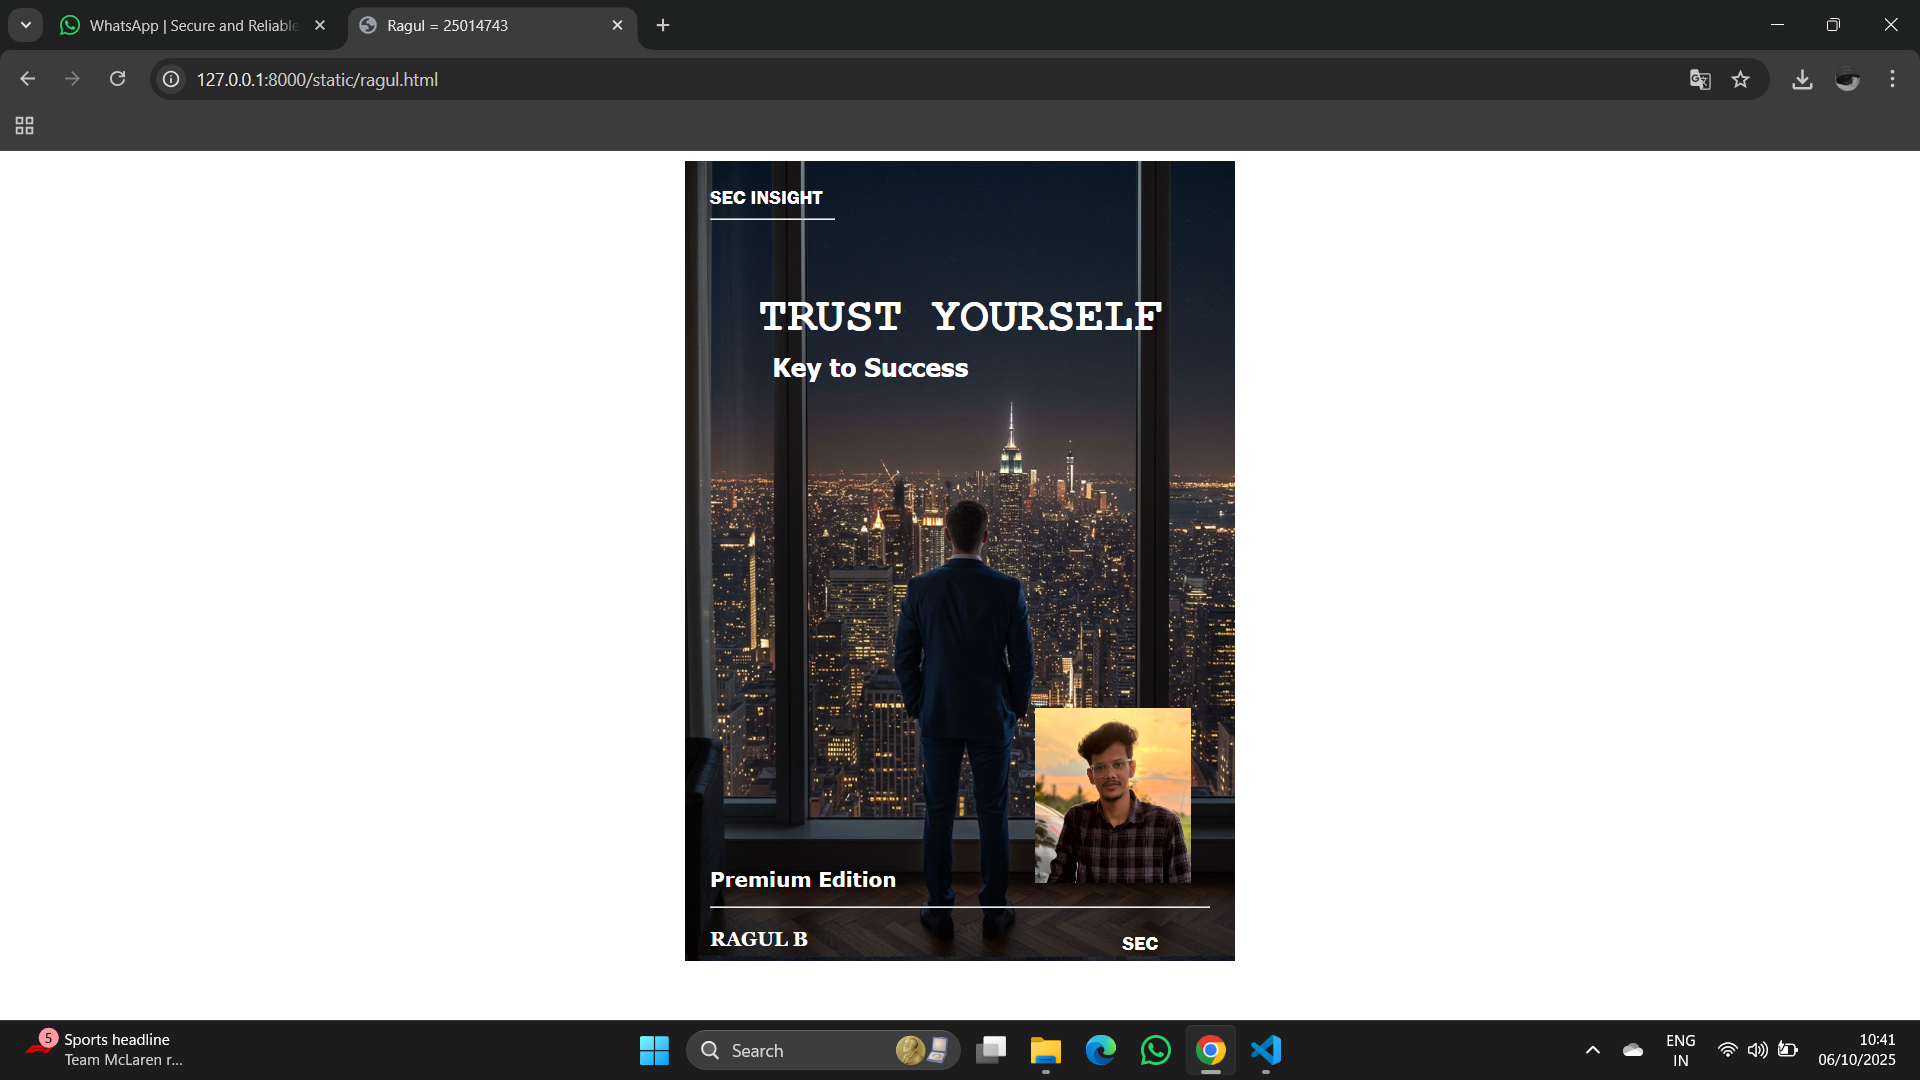
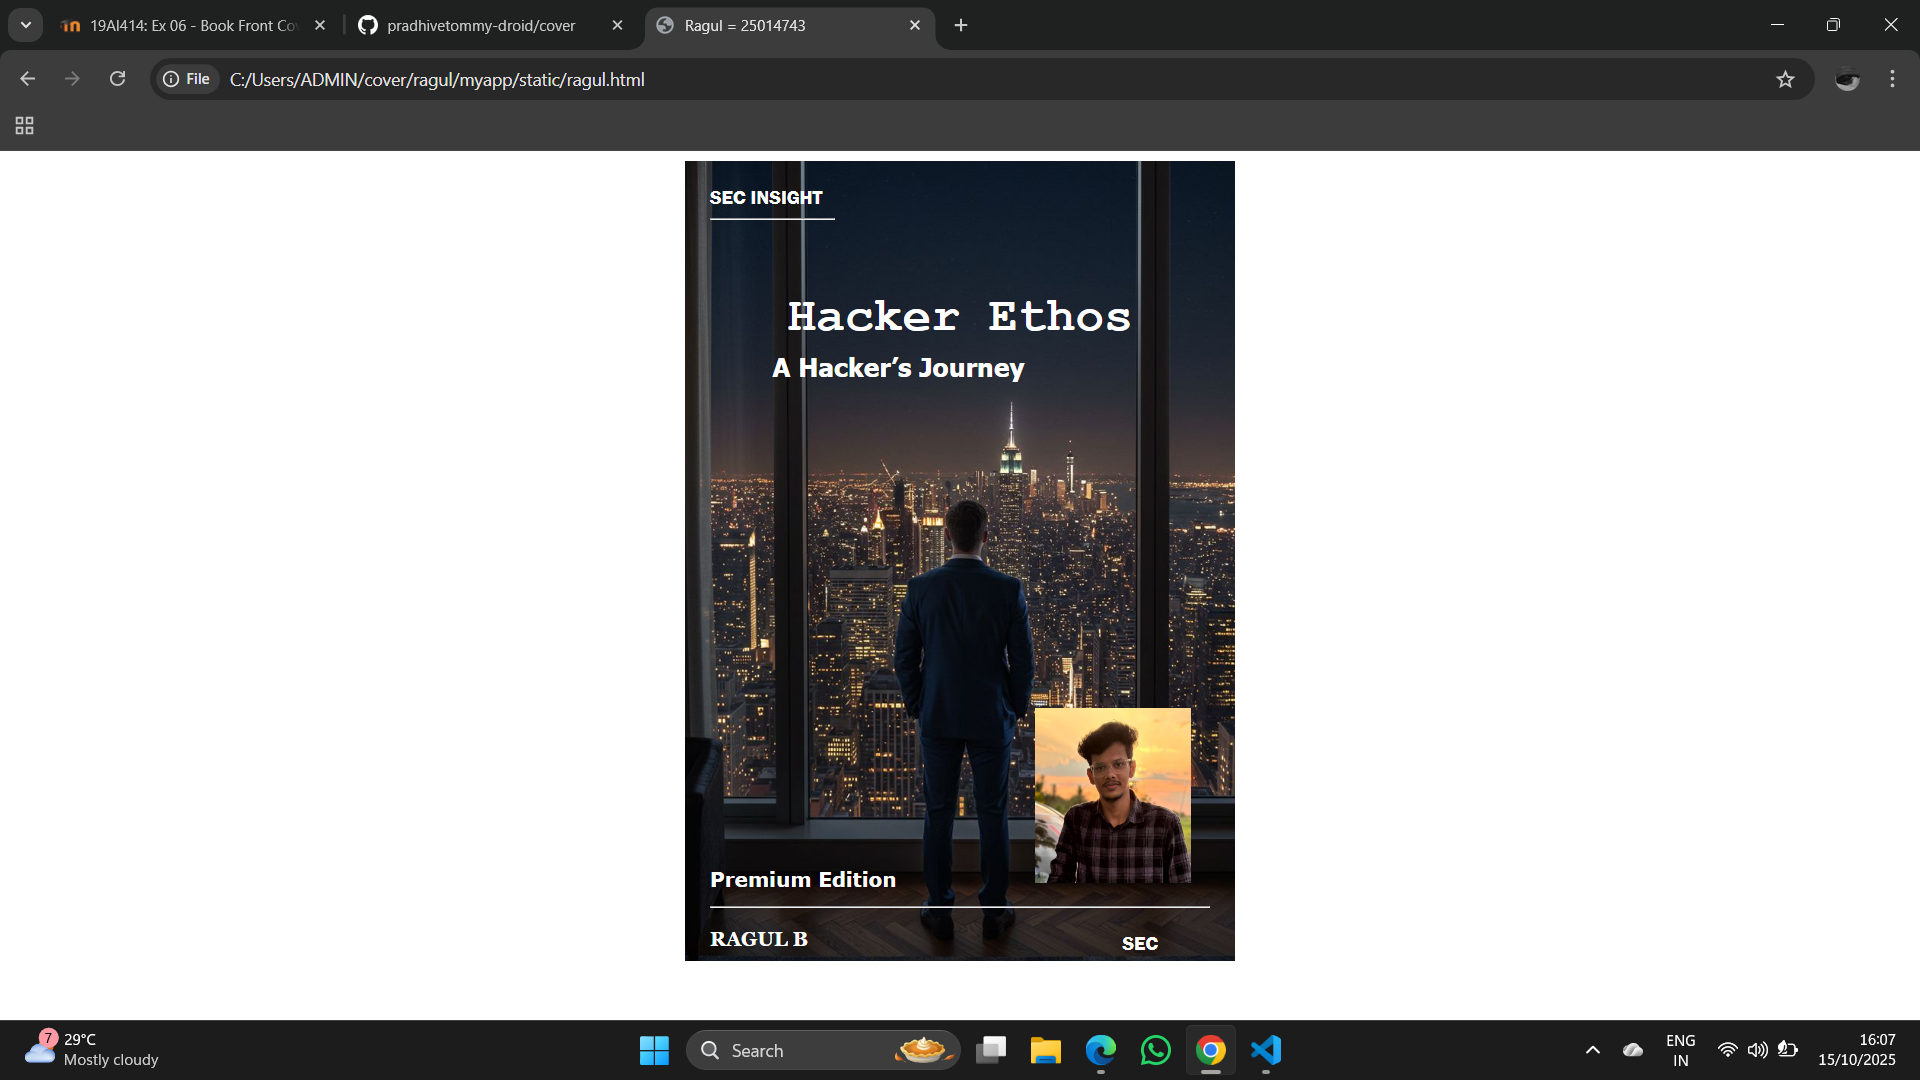
Success

diff --git a/ragul/myapp/static/ragul.html b/ragul/myapp/static/ragul.html
@@ -16,10 +16,10 @@
                       <hr style="color: yellow;">
                  </div>
                  <div class="booktitle">
-                      <h1>TRUST YOURSELF</h1></div>
+                      <h1>Hacker Ethos</h1></div>
 
                  <div class="subtitle">
-                         <h3>Key to Success</h3>
+                         <h3>A Hacker’s Journey</h3>
                  </div>
                  <div class="mypic">
                       <img src="mypic.jpeg" width="125" height="140" alt="">

diff --git a/README.md b/README.md
@@ -51,10 +51,10 @@ ragul.html
                       <hr style="color: yellow;">
                  </div>
                  <div class="booktitle">
-                      <h1>TRUST YOURSELF</h1></div>
+                      <h1>HACKER ETHOS</h1></div>
 
                  <div class="subtitle">
-                         <h3>Key to Success</h3>
+                         <h3>A Hacker’s Journey</h3>
                  </div>
                  <div class="mypic">
                       <img src="mypic.jpeg" width="125" height="140" alt="">
